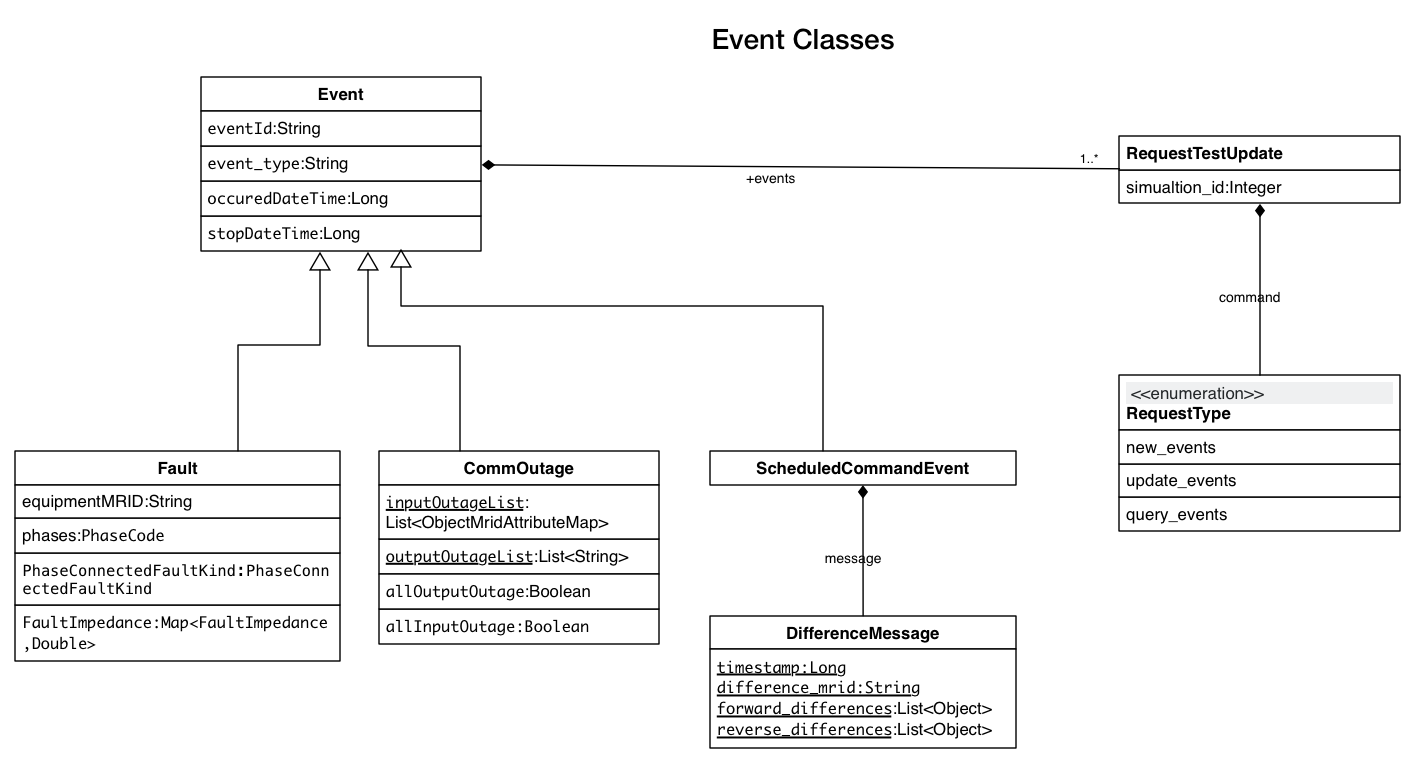
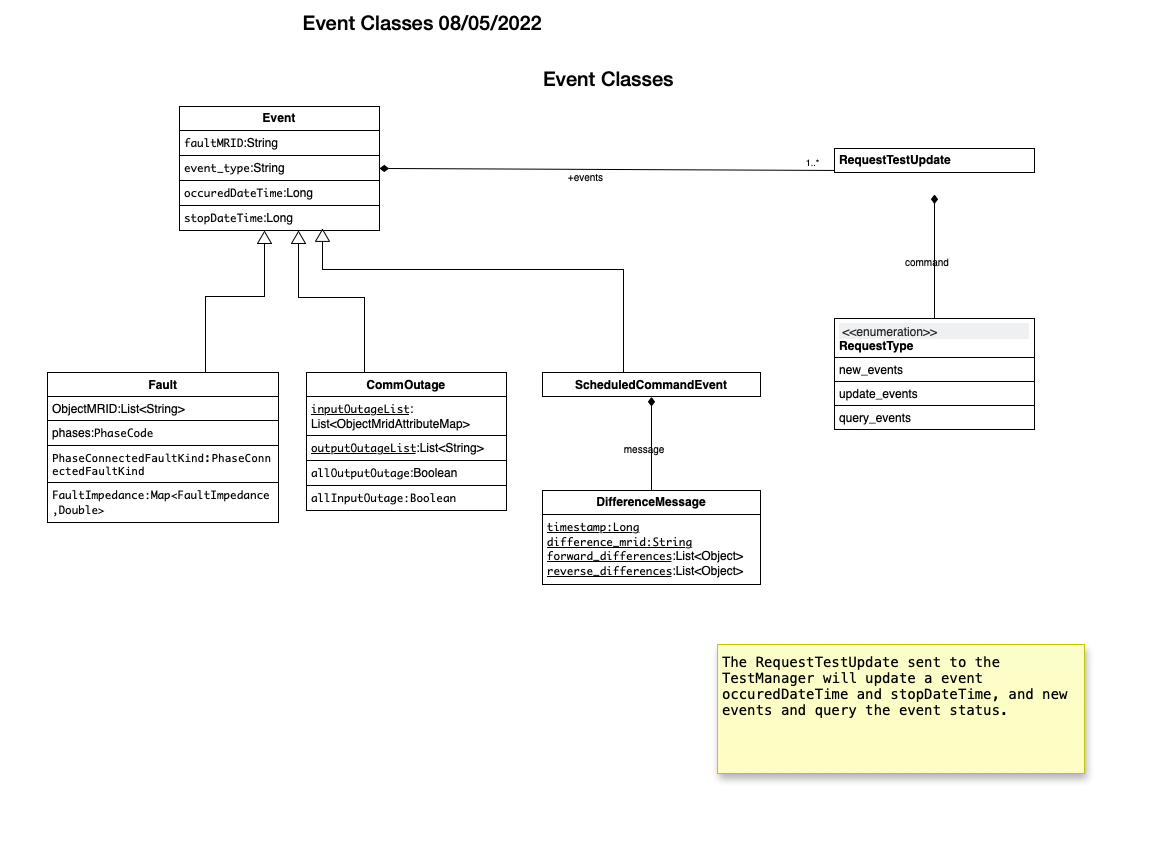
Updated EventClassDiagram and change FaultMRID to lower case where needed.

diff --git a/docs/source/using_gridappsd/test_manager_events.rst b/docs/source/using_gridappsd/test_manager_events.rst
@@ -95,7 +95,7 @@ Fault Commands sent from the Test Manager to the simulation
                 "rLineToLine": 0.0, 
                 "xGround": 0.001
                 }, 
-                "FaultMRID": "1233", 
+                "faultMRID": "1233", 
                 "PhaseCode": "AN", 
                 "PhaseConnectedFaultKind": "lineToGround"
             }
@@ -120,7 +120,7 @@ Fault Commands sent from the Test Manager to the simulation
                 "rLineToLine": 0.0, 
                 "xGround": 0.001
                 }, 
-                "FaultMRID": "1233", 
+                "faultMRID": "1233", 
                 "PhaseCode": "AN", 
                 "PhaseConnectedFaultKind": "lineToGround"
             }
